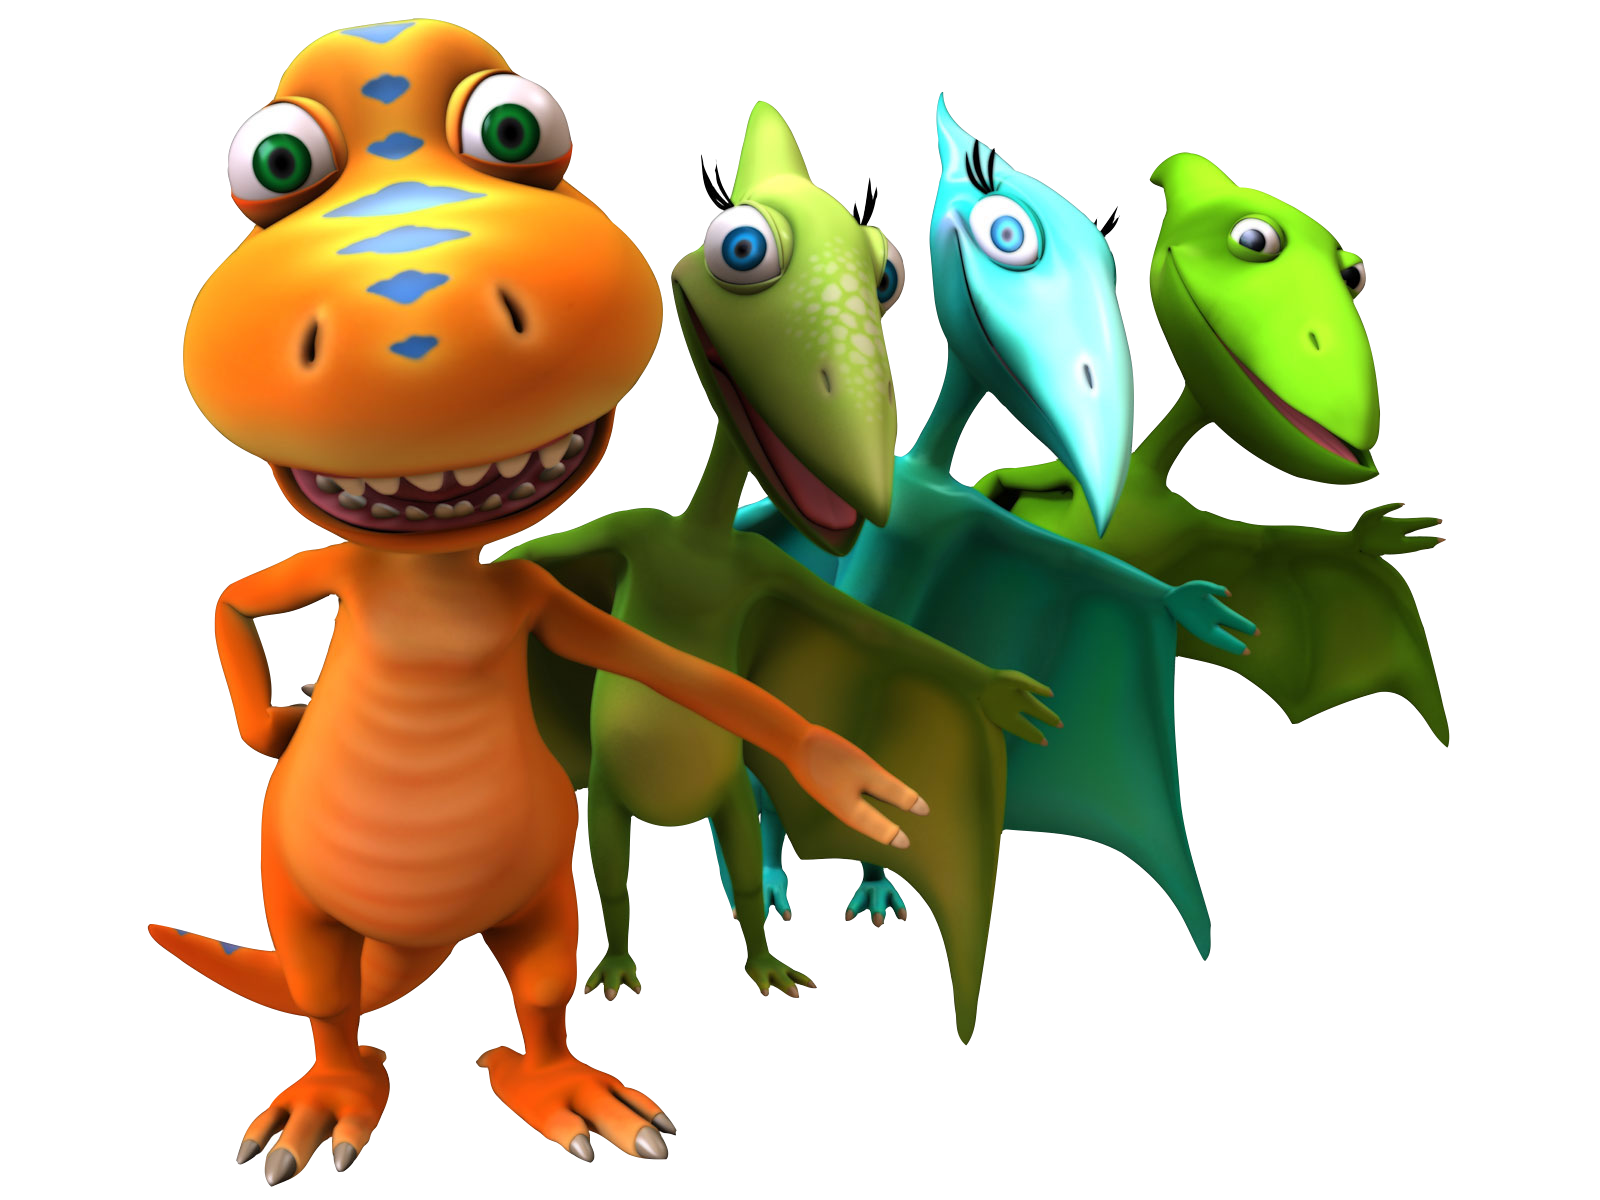
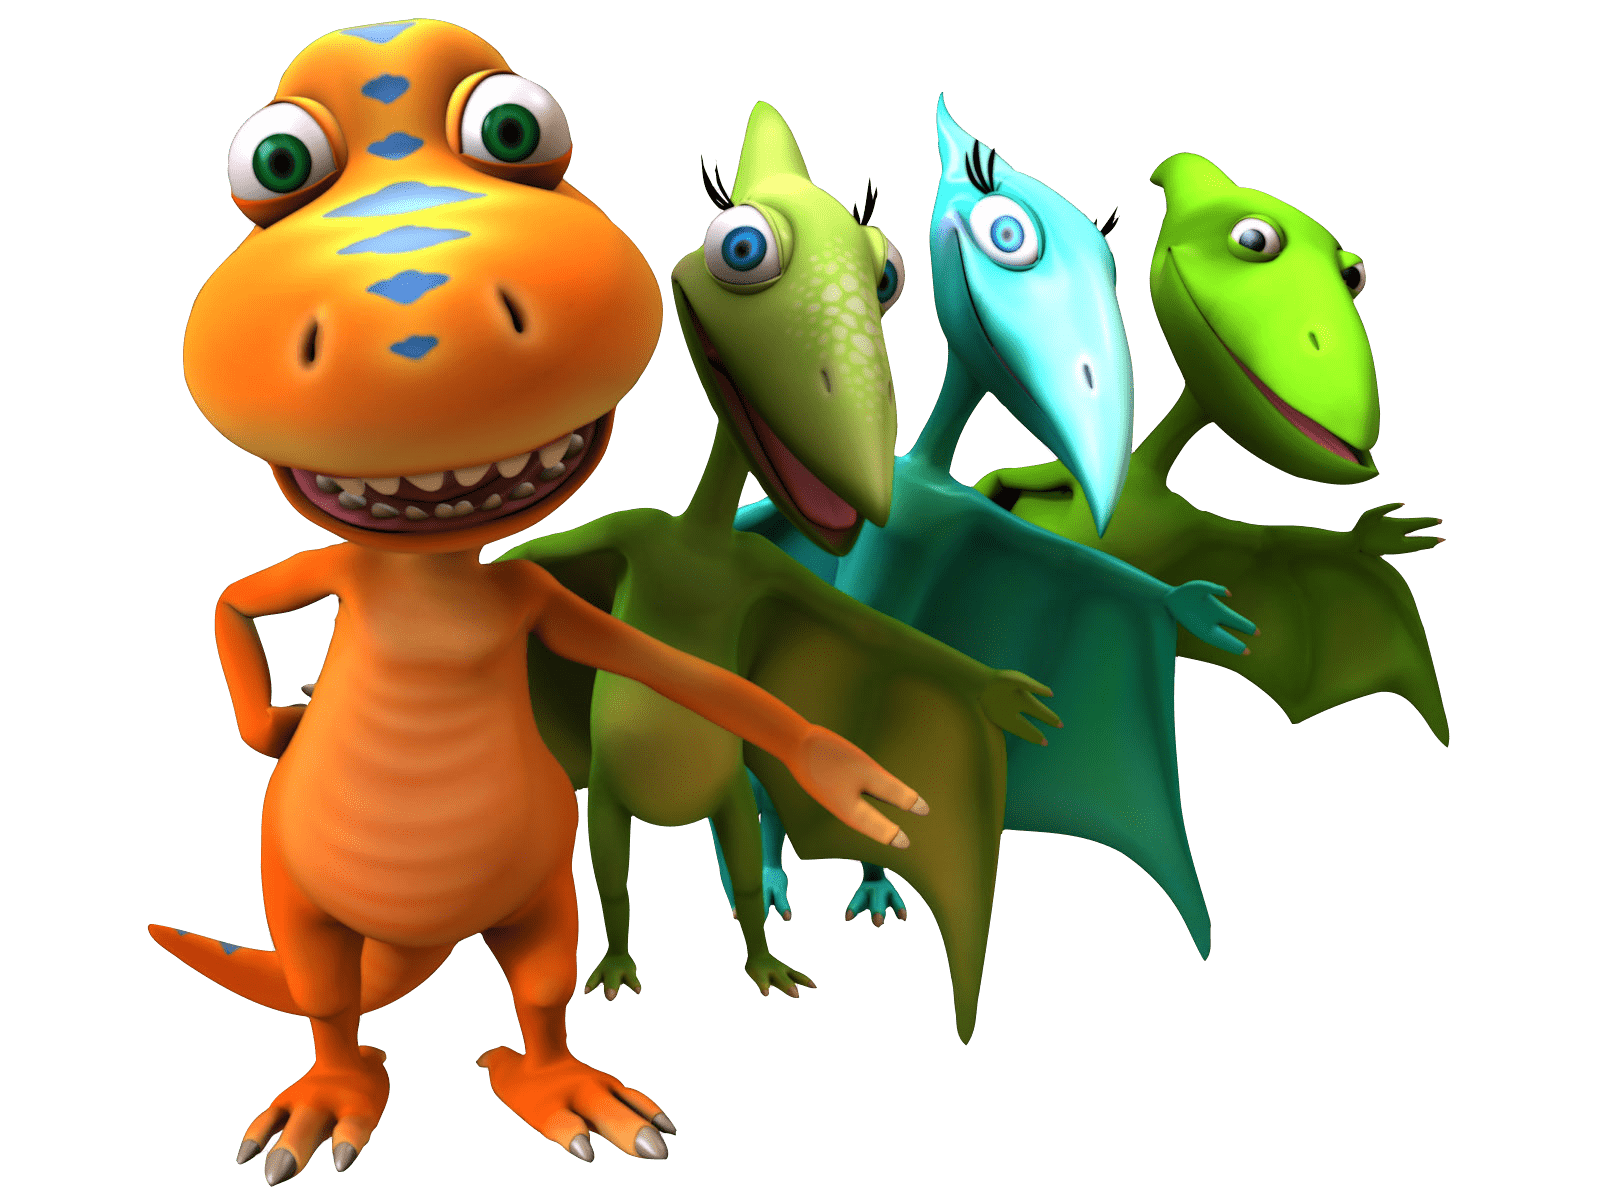
Fixad gruppbild

diff --git a/karaktarer.html b/karaktarer.html
@@ -22,7 +22,7 @@
       </nav>
 
       <!-- stor bild och rubrik -->
-      <img class="gruppbild" src="img/gruppbild.jpg" alt="Gruppbild på karaktärerna">
+      <img class="gruppbild" src="img/gruppbild.png" alt="Gruppbild på karaktärerna">
       <div class="rubrikruta-karaktarer">
         <h1 class="rubrik-karaktarer">Karaktärer</h1>
         <p class="text-karaktarer">Lorem ipsum dolor sit amet, consectetur adipiscing elit <br> Sed do eiusmod tempor incididunt ut labore et
